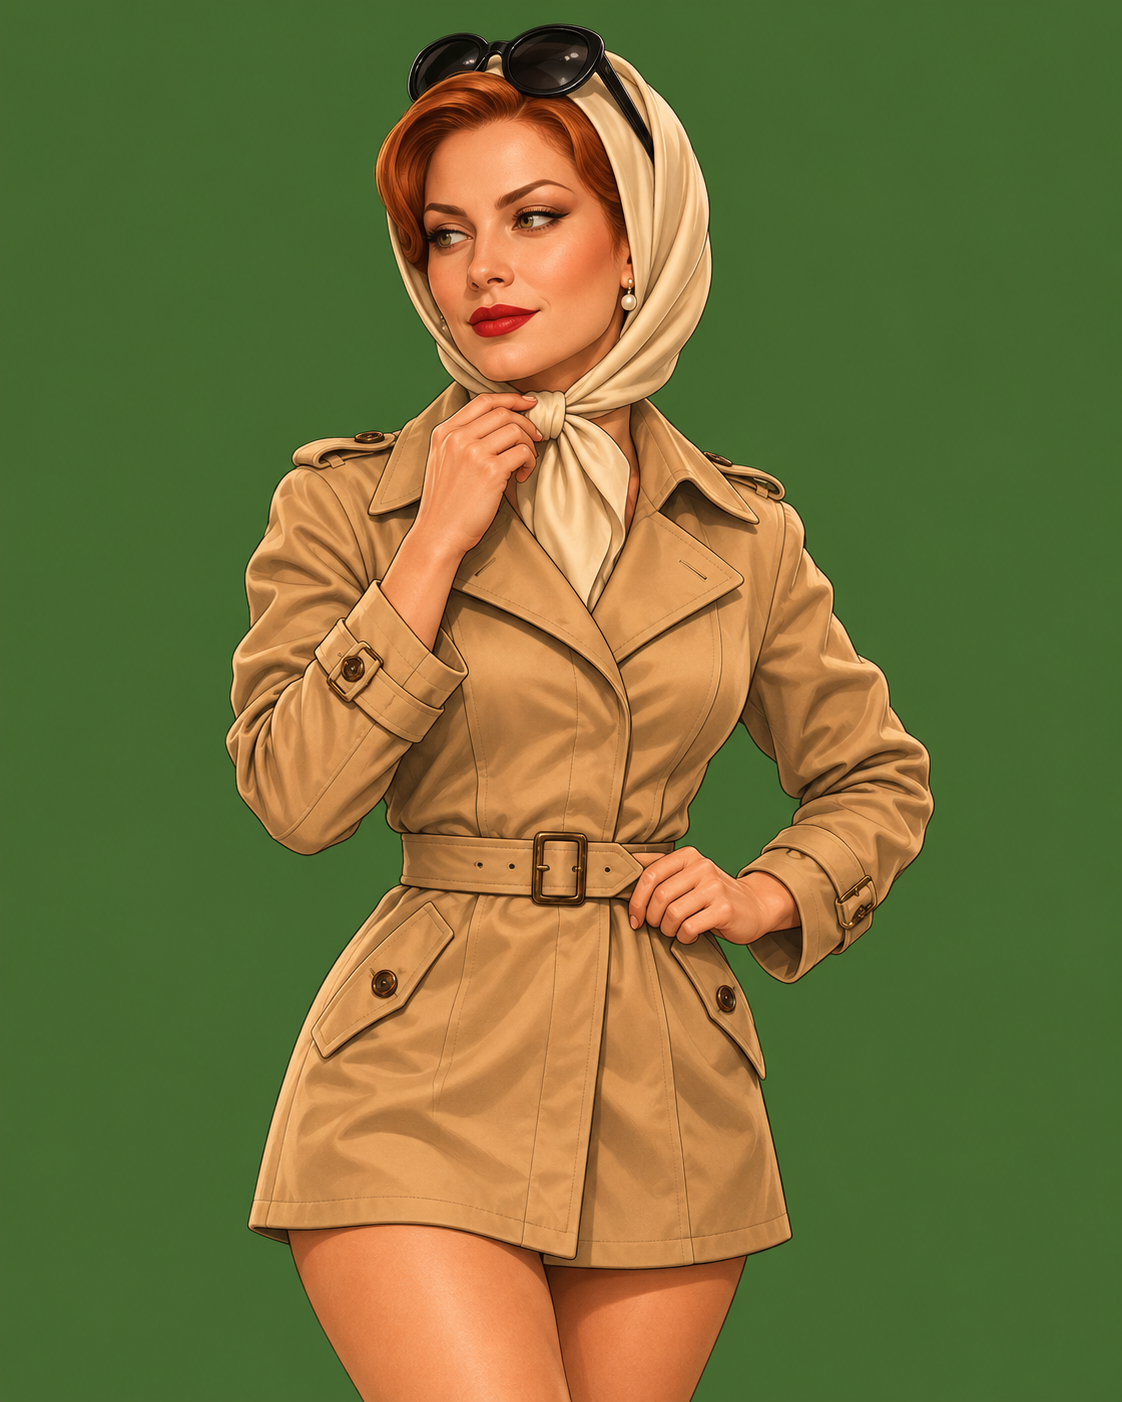
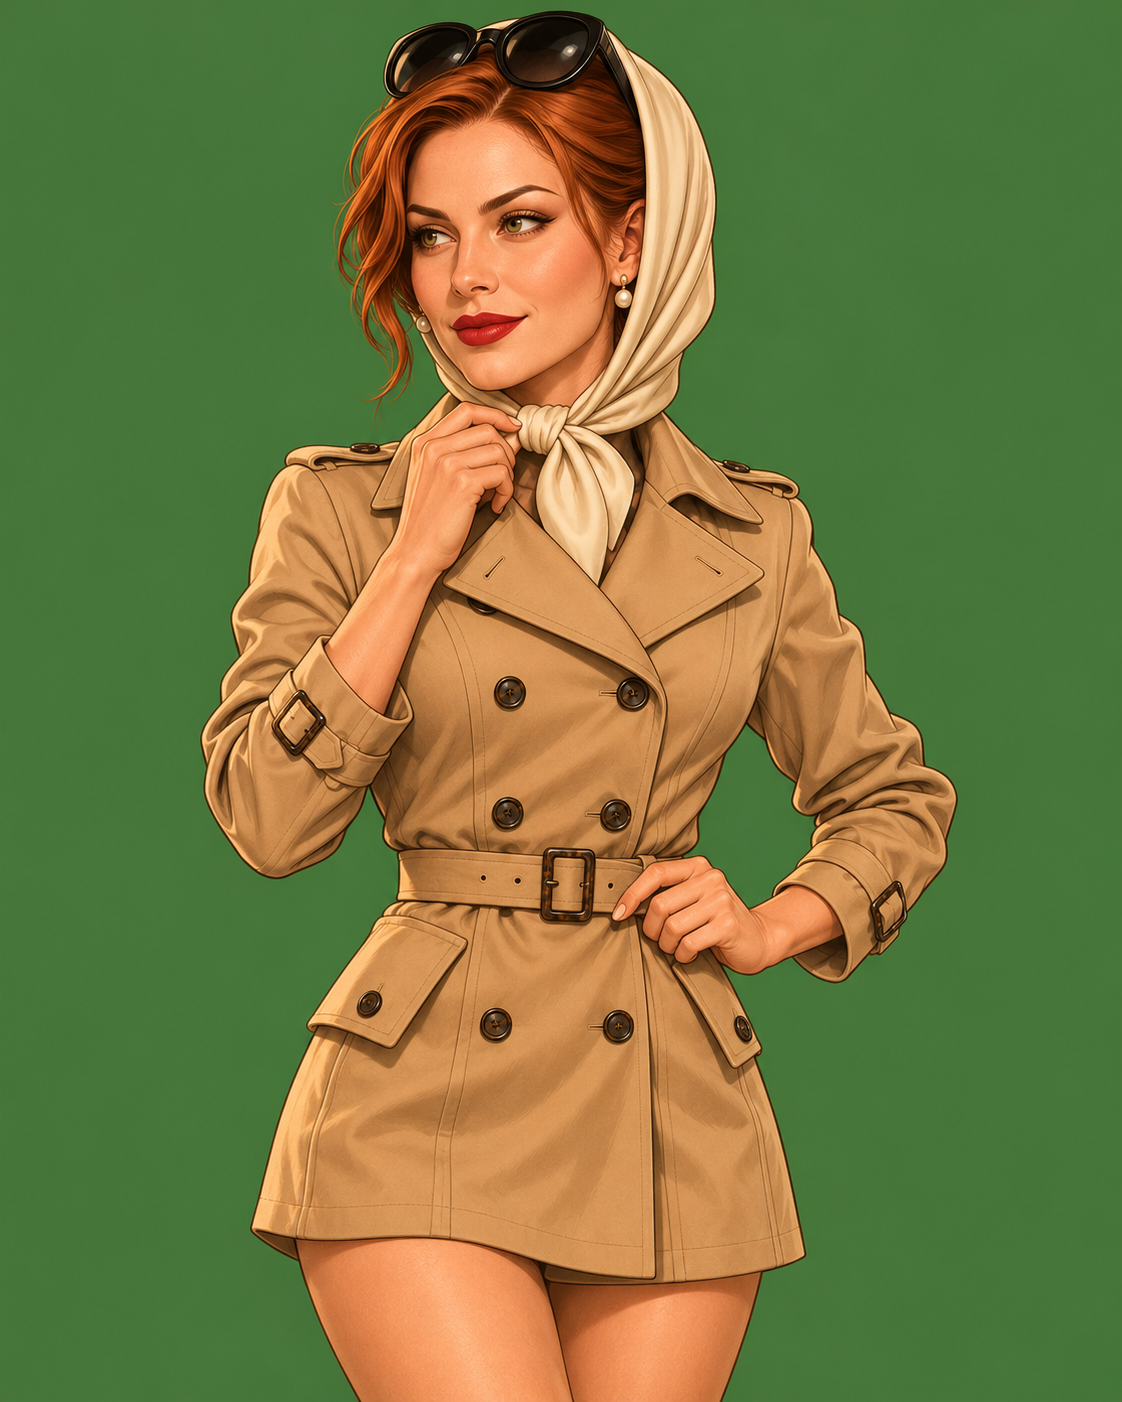
uretim/v3: Peri ve Cengo'nun saçı eskisi gibi (sahibinin kararı); G1, G4 onaylı

Changed region(s): [[0.156, 0.0, 0.8734, 1.0], [0.4991, 0.9815, 0.5303, 1.0], [0.3119, 0.9815, 0.3431, 1.0]]

diff --git a/uretim/CLAUDE.md b/uretim/CLAUDE.md
@@ -145,4 +145,4 @@ fazla boşluğu kırp). Şeritte dekolte olmamalı.
 | İki yan karakter birbirine benziyor | "X'e benzemiyor" + ayırıcı özellik (ince bıyık / gür pala bıyık) |
 | Yeni karakter eski birine benziyor | başı silinmiş tarz gövdesi; yüzü ayırt edici çizgilerle tarif et |
 | Boy, bakış, kesim, saç | H. Görsel standart + `arac_yanyana.js` |
-| Dağınık saç telleri zemine taşıyor → kesimde teller arasındaki zemin yeşil/beyaz hale kalıyor; profil değiştirmek çözmedi (v3 G1, G4, 6 Kasım) | "saçın dış çizgisi toplu; zemine taşan ince tel, havada kıvrılan uç yok" (eşarplıysa "saçın tamamı eşarbın içinde") |
+| Dağınık saç telleri zemine taşıyor → kesimden sonra teller arasında zemin halesi kalıyor (v3 G1, G4) | istemde "saçın dış çizgisi toplu; zemine taşan ince tel yok" (eşarplıysa "saçın tamamı eşarbın içinde"). Hale tek başına RET SEBEBİ DEĞİL: gömmede yalnız baş kutusunda temizlenir (`5_gorsel_sistemi.md` → F "Hale temizliği yöntemi"; Vaka 1–2'de böyle yapıldı). **Peri ve Cengo istisna (sahibi, 6 Kasım):** saçları eskisi gibi dağınık kalır; onlara bu satır yazılmaz, hale gömmede temizlenir |

diff --git a/uretim/v3/prompts/G21.md b/uretim/v3/prompts/G21.md
@@ -25,9 +25,7 @@ Poz: TAM İKİ KOL, İKİ EL. İki eli önünde, bel hizasında parmakları birb
 Başın açısı: burnu kadrajın soluna bakıyor; yüzü üç çeyrek, iki göz de görünüyor. Gözler kadrajın soluna, yatay bakıyor; yukarı, aşağı ya da kameraya değil. Profil değil: uzaktaki göz de açıkça görünüyor.
 
 İfade: utanmış; yanakları kızarmış, başı çok hafif eğik, mahcup küçük bir gülümseme; gözler yine kadrajın soluna.
-
-Saçın tamamı eşarbın içinde ve yüze yakın; eşarbın dışına, arka plana taşan tek bir saç tutamı ya da ince tel yok.
-
+
 Kadraj: DİKEY 4:5. Tek kişi, ayakta, kadrajın ortasında. Uyluk ortasından yukarısı; başın tepesinin üstünde ince bir boşluk. Arka plan: düz, tek renk orta yeşil; gölgesiz, hiçbir nesne yok.
 
 Çıplaklık yok; kumaş kalın ve mat, altından vücut ayrıntısı belirmiyor.

diff --git a/uretim/v3/prompts/G19.md b/uretim/v3/prompts/G19.md
@@ -25,9 +25,7 @@ Poz: TAM İKİ KOL, İKİ EL. Sol eli belinde. Sağ elinin parmak uçlarıyla al
 Başın açısı: burnu kadrajın soluna bakıyor; yüzü üç çeyrek, iki göz de görünüyor. Gözler kadrajın soluna, yatay bakıyor; yukarı, aşağı ya da kameraya değil. Profil değil: uzaktaki göz de açıkça görünüyor.
 
 İfade: tek kaşı belirgin biçimde kalkık, dudağının bir ucu alaycı bir yarım gülümsemeyle yukarıda: "ciddi misiniz?"
-
-Saçın tamamı eşarbın içinde ve yüze yakın; eşarbın dışına, arka plana taşan tek bir saç tutamı ya da ince tel yok.
-
+
 Kadraj: DİKEY 4:5. Tek kişi, ayakta, kadrajın ortasında. Uyluk ortasından yukarısı; başın tepesinin üstünde ince bir boşluk. Arka plan: düz, tek renk orta yeşil; gölgesiz, hiçbir nesne yok.
 
 Çıplaklık yok; kumaş kalın ve mat, altından vücut ayrıntısı belirmiyor.

diff --git a/uretim/v3/prompts/G24.md b/uretim/v3/prompts/G24.md
@@ -25,9 +25,7 @@ Poz: TAM İKİ KOL, İKİ EL. Kolları göğsünün altında sıkıca kavuşuk; 
 Başın açısı: burnu kadrajın soluna bakıyor; yüzü üç çeyrek, iki göz de görünüyor. Gözler kadrajın soluna, yatay bakıyor; yukarı, aşağı ya da kameraya değil. Profil değil: uzaktaki göz de açıkça görünüyor.
 
 İfade: kıskanç; dudaklar büzük, çene hafif yukarıda, gözler kısık ve sert, bakış yine kadrajın soluna.
-
-Saçın tamamı eşarbın içinde ve yüze yakın; eşarbın dışına, arka plana taşan tek bir saç tutamı ya da ince tel yok.
-
+
 Kadraj: DİKEY 4:5. Tek kişi, ayakta, kadrajın ortasında. Uyluk ortasından yukarısı; başın tepesinin üstünde ince bir boşluk. Arka plan: düz, tek renk orta yeşil; gölgesiz, hiçbir nesne yok.
 
 Çıplaklık yok; kumaş kalın ve mat, altından vücut ayrıntısı belirmiyor.

diff --git a/uretim/v3/prompts/G23.md b/uretim/v3/prompts/G23.md
@@ -25,9 +25,7 @@ Poz: TAM İKİ KOL, İKİ EL. Sağ elinin işaret parmağı çenesinde. Sol kolu
 Başın açısı: burnu kadrajın soluna bakıyor; yüzü üç çeyrek, iki göz de görünüyor. Gözler kadrajın soluna, yatay bakıyor; yukarı, aşağı ya da kameraya değil. Profil değil: uzaktaki göz de açıkça görünüyor.
 
 İfade: meraklı, düşünceli; gözler hafif kısık, dudaklar az büzük, "bir şey var burada".
-
-Saçın tamamı eşarbın içinde ve yüze yakın; eşarbın dışına, arka plana taşan tek bir saç tutamı ya da ince tel yok.
-
+
 Kadraj: DİKEY 4:5. Tek kişi, ayakta, kadrajın ortasında. Uyluk ortasından yukarısı; başın tepesinin üstünde ince bir boşluk. Arka plan: düz, tek renk orta yeşil; gölgesiz, hiçbir nesne yok.
 
 Çıplaklık yok; kumaş kalın ve mat, altından vücut ayrıntısı belirmiyor.

diff --git a/uretim/v3/prompts/G22.md b/uretim/v3/prompts/G22.md
@@ -25,9 +25,7 @@ Poz: TAM İKİ KOL, İKİ EL. Sağ eli trençkotun üstünden göğsünün ortas
 Başın açısı: burnu kadrajın soluna bakıyor; yüzü üç çeyrek, iki göz de görünüyor. Gözler kadrajın soluna, yatay bakıyor; yukarı, aşağı ya da kameraya değil. Profil değil: uzaktaki göz de açıkça görünüyor.
 
 İfade: şaşırmış; gözler iri açık, kaşlar yukarıda, ağzı hafif açık.
-
-Saçın tamamı eşarbın içinde ve yüze yakın; eşarbın dışına, arka plana taşan tek bir saç tutamı ya da ince tel yok.
-
+
 Kadraj: DİKEY 4:5. Tek kişi, ayakta, kadrajın ortasında. Uyluk ortasından yukarısı; başın tepesinin üstünde ince bir boşluk. Arka plan: düz, tek renk orta yeşil; gölgesiz, hiçbir nesne yok.
 
 Çıplaklık yok; kumaş kalın ve mat, altından vücut ayrıntısı belirmiyor.

diff --git a/uretim/v3/prompts/G25.md b/uretim/v3/prompts/G25.md
@@ -26,9 +26,7 @@ Poz: TAM İKİ KOL, İKİ EL. Sol eli kırmızı stilettolarından birini aşağ
 Başın açısı: burnu kadrajın soluna bakıyor; yüzü üç çeyrek, iki göz de görünüyor. Gözler kadrajın soluna, yatay bakıyor; yukarı, aşağı ya da kameraya değil. Profil değil: uzaktaki göz de açıkça görünüyor.
 
 İfade: utanmış; yanakları kıpkırmızı, dudaklarını ısırmış, gözleri yine kadrajın soluna.
-
-Saçın dış çizgisi toplu ve net: arka plana taşan ince tek teller, havada kıvrılan uçlar yok.
-
+
 Kadraj: DİKEY 4:5. Tek kişi, ayakta, kadrajın ortasında. Uyluk ortasından yukarısı; başın tepesinin üstünde ince bir boşluk. Arka plan: düz, tek renk orta yeşil; gölgesiz, hiçbir nesne yok.
 
 Çıplaklık yok; kumaş kalın ve mat, altından vücut ayrıntısı belirmiyor.

diff --git a/uretim/v3/prompts/G20.md b/uretim/v3/prompts/G20.md
@@ -25,9 +25,7 @@ Poz: TAM İKİ KOL, İKİ EL. Sağ kolu öne uzanmış, işaret parmağıyla kad
 Başın açısı: burnu kadrajın soluna bakıyor; yüzü üç çeyrek, iki göz de görünüyor. Gözler kadrajın soluna, yatay bakıyor; yukarı, aşağı ya da kameraya değil. Profil değil: uzaktaki göz de açıkça görünüyor.
 
 İfade: sinirli; kaşlar çatık, gözler kısık, dudaklar sıkılı.
-
-Saçın tamamı eşarbın içinde ve yüze yakın; eşarbın dışına, arka plana taşan tek bir saç tutamı ya da ince tel yok.
-
+
 Kadraj: DİKEY 4:5. Tek kişi, ayakta, kadrajın ortasında. Uyluk ortasından yukarısı; başın tepesinin üstünde ince bir boşluk. Arka plan: düz, tek renk orta yeşil; gölgesiz, hiçbir nesne yok.
 
 Çıplaklık yok; kumaş kalın ve mat, altından vücut ayrıntısı belirmiyor.

diff --git a/uretim/v3/prompts/G5.md b/uretim/v3/prompts/G5.md
@@ -25,9 +25,7 @@ Poz: TAM İKİ KOL, İKİ EL. Sağ eli ceketinin önündeki unu silkeliyor; sol 
 Başın açısı: burnu kadrajın soluna bakıyor; yüzü üç çeyrek, iki göz de görünüyor. Gözler kadrajın soluna, yatay bakıyor; yukarı, aşağı ya da kameraya değil. Profil değil: uzaktaki göz de açıkça görünüyor.
 
 İfade: unun içinden bakan, hafif şaşkın ama keyfi yerinde; gözleri unun ortasında belirgin.
-
-Saçın dış çizgisi toplu ve net: arka plana taşan ince tek teller, havada kıvrılan uçlar yok.
-
+
 Kadraj: DİKEY 4:5. Tek kişi, ayakta, kadrajın ortasında. Uyluk ortasından yukarısı; başın tepesinin üstünde ince bir boşluk. Arka plan: düz, tek renk gri-mavi; gölgesiz, hiçbir nesne yok.
 
 Çıplaklık yok; kumaş kalın ve mat, altından vücut ayrıntısı belirmiyor.

diff --git a/uretim/v3/prompts/G28.md b/uretim/v3/prompts/G28.md
@@ -25,9 +25,7 @@ Poz: TAM İKİ KOL, İKİ EL. İki eli önlüğün eteğini önünde buruşturuy
 Başın açısı: burnu kadrajın soluna bakıyor; yüzü üç çeyrek, iki göz de görünüyor. Gözler kadrajın soluna, yatay bakıyor; yukarı, aşağı ya da kameraya değil. Profil değil: uzaktaki göz de açıkça görünüyor.
 
 İfade: utanmış; yanakları kızarmış, mahcup gülümseme, başı çok hafif eğik.
-
-Saçın dış çizgisi toplu ve net: arka plana taşan ince tek teller, havada kıvrılan uçlar yok.
-
+
 Kadraj: DİKEY 4:5. Tek kişi, ayakta, kadrajın ortasında. Uyluk ortasından yukarısı; başın tepesinin üstünde ince bir boşluk. Arka plan: düz, tek renk orta yeşil; gölgesiz, hiçbir nesne yok.
 
 Çıplaklık yok; kumaş kalın ve mat, altından vücut ayrıntısı belirmiyor.

diff --git a/uretim/v3/prompts/G27.md b/uretim/v3/prompts/G27.md
@@ -25,9 +25,7 @@ Poz: TAM İKİ KOL, İKİ EL. İki eli göğüs hizasında, avuçları öne dön
 Başın açısı: burnu kadrajın soluna bakıyor; yüzü üç çeyrek, iki göz de görünüyor. Gözler kadrajın soluna, yatay bakıyor; yukarı, aşağı ya da kameraya değil. Profil değil: uzaktaki göz de açıkça görünüyor.
 
 İfade: şaşırmış; gözler iri, kaşlar yukarıda, ağzı açık: "Ev sahibi!"
-
-Saçın dış çizgisi toplu ve net: arka plana taşan ince tek teller, havada kıvrılan uçlar yok.
-
+
 Kadraj: DİKEY 4:5. Tek kişi, ayakta, kadrajın ortasında. Uyluk ortasından yukarısı; başın tepesinin üstünde ince bir boşluk. Arka plan: düz, tek renk orta yeşil; gölgesiz, hiçbir nesne yok.
 
 Çıplaklık yok; kumaş kalın ve mat, altından vücut ayrıntısı belirmiyor.

diff --git a/uretim/v3/prompts/G32.md b/uretim/v3/prompts/G32.md
@@ -26,9 +26,7 @@ Poz: TAM İKİ KOL, İKİ EL. İki eli kotunun ön ceplerinde, başparmakları d
 Başın açısı: burnu kadrajın soluna bakıyor; yüzü üç çeyrek, iki göz de görünüyor. Gözler kadrajın soluna, yatay bakıyor; yukarı, aşağı ya da kameraya değil. Profil değil: uzaktaki göz de açıkça görünüyor.
 
 İfade: yumuşak, sıcak, hafif hüzünlü küçük bir gülümseme.
-
-Saçın dış çizgisi toplu ve net: arka plana taşan ince tek teller, havada kıvrılan uçlar yok.
-
+
 Kadraj: DİKEY 4:5. Tek kişi, ayakta, kadrajın ortasında. Uyluk ortasından yukarısı; başın tepesinin üstünde ince bir boşluk. Arka plan: düz, tek renk açık bej; gölgesiz, hiçbir nesne yok.
 
 Çıplaklık yok; kumaş kalın ve mat, altından vücut ayrıntısı belirmiyor.
